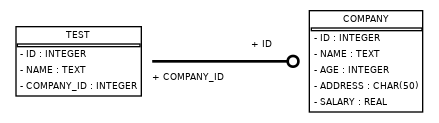
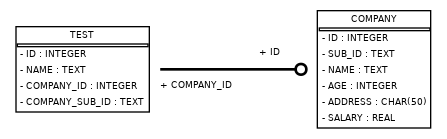
utilities changes, added new rule to make file

Changed region(s): [[0.0296, 0.0488, 0.9772, 0.9512], [0.5626, 0.3171, 0.6515, 0.4146]]

diff --git a/src/scripts/test_db.py b/src/scripts/test_db.py
@@ -11,10 +11,12 @@ metadata = MetaData(bind=engine)
 connection = engine.raw_connection()
 cursor = connection.cursor()
 
+cursor.execute("""PRAGMA foreign_keys=on;""")
 cursor.execute("""DROP TABLE IF EXISTS COMPANY""")
 cursor.execute(
     """CREATE TABLE COMPANY
          (ID INT PRIMARY KEY     NOT NULL,
+         SUB_ID         TEXT     NOT NULL,
          NAME           TEXT    NOT NULL,
          AGE            INT     NOT NULL,
          ADDRESS        CHAR(50),
@@ -22,42 +24,75 @@ cursor.execute(
 )
 
 cursor.execute(
-    "INSERT INTO COMPANY (ID,NAME,AGE,ADDRESS,SALARY) \
-      VALUES (1, 'Paul', 32, 'California', 20000.00 )"
+    "INSERT INTO COMPANY (ID,SUB_ID,NAME,AGE,ADDRESS,SALARY) \
+      VALUES (1, 'x', 'Paul', 32, 'California', 20000.00 )"
 )
 
 cursor.execute(
-    "INSERT INTO COMPANY (ID,NAME,AGE,ADDRESS,SALARY) \
-      VALUES (2, 'Allen', 25, 'Texas', 15000.00 )"
+    "INSERT INTO COMPANY (ID,SUB_ID,NAME,AGE,ADDRESS,SALARY) \
+      VALUES (2, 'y', 'Allen', 25, 'Texas', 15000.00 )"
 )
 
 cursor.execute(
-    "INSERT INTO COMPANY (ID,NAME,AGE,ADDRESS,SALARY) \
-      VALUES (3, 'Teddy', 23, 'Norway', 20000.00 )"
+    "INSERT INTO COMPANY (ID,SUB_ID,NAME,AGE,ADDRESS,SALARY) \
+      VALUES (3, 'z', 'Teddy', 23, 'Norway', 20000.00 )"
 )
 
 cursor.execute(
-    "INSERT INTO COMPANY (ID,NAME,AGE,ADDRESS,SALARY) \
-      VALUES (4, 'Mark', 25, 'Rich-Mond ', 65000.00 )"
+    "INSERT INTO COMPANY (ID,SUB_ID,NAME,AGE,ADDRESS,SALARY) \
+      VALUES (4, 'w', 'Mark', 25, 'Rich-Mond ', 65000.00 )"
 )
 
 connection.commit()
 
 cursor.execute("""DROP TABLE IF EXISTS TEST""")
 cursor.execute(
-    """CREATE TABLE TEST
-         (ID INT PRIMARY KEY     NOT NULL,
-         NAME           TEXT    NOT NULL,
-         COMPANY_ID     INT     NOT NULL,
-         FOREIGN KEY (COMPANY_ID) REFERENCES COMPANY);"""
+    """CREATE TABLE TEST(
+        ID INT PRIMARY KEY     NOT NULL,
+        NAME           TEXT    NOT NULL,
+        COMPANY_ID     INT     NULL,
+        COMPANY_SUB_ID TEXT     NULL,
+        FOREIGN KEY (COMPANY_ID) REFERENCES COMPANY ON DELETE SET NULL
+    );"""
 )
 
-cursor.execute("INSERT INTO TEST (ID,NAME,COMPANY_ID) VALUES (1, 'OtherTable1', 1)")
-cursor.execute("INSERT INTO TEST (ID,NAME,COMPANY_ID) VALUES (2, 'OtherTable2', 2)")
-cursor.execute("INSERT INTO TEST (ID,NAME,COMPANY_ID) VALUES (3, 'OtherTable3', 3)")
-cursor.execute("INSERT INTO TEST (ID,NAME,COMPANY_ID) VALUES (4, 'OtherTable4', 4)")
+cursor.execute(
+    "INSERT INTO TEST (ID,NAME,COMPANY_ID,COMPANY_SUB_ID) VALUES (1, 'OtherTable1', 1, 'x')"
+)
+cursor.execute(
+    "INSERT INTO TEST (ID,NAME,COMPANY_ID,COMPANY_SUB_ID) VALUES (2, 'OtherTable2', 2, 'y')"
+)
+cursor.execute(
+    "INSERT INTO TEST (ID,NAME,COMPANY_ID,COMPANY_SUB_ID) VALUES (3, 'OtherTable3', 3, 'z')"
+)
+cursor.execute(
+    "INSERT INTO TEST (ID,NAME,COMPANY_ID,COMPANY_SUB_ID) VALUES (4, 'OtherTable4', 4, 'w')"
+)
 
 connection.commit()
+
+result = cursor.execute(
+    "SELECT c.id, c.name, c.age, t.name FROM COMPANY as c LEFT JOIN TEST as t ON c.ID=t.COMPANY_ID"
+)
+for row in result:
+    print(row)
+
+result = cursor.execute("DELETE FROM COMPANY WHERE ID=1")
+
+print("----------------")
+
+result = cursor.execute(
+    "SELECT c.id, c.name, c.age, t.name FROM COMPANY as c LEFT JOIN TEST as t ON c.ID=t.COMPANY_ID"
+)
+for row in result:
+    print(row)
+
+print("----------------")
+
+result = cursor.execute("SELECT * FROM TEST")
+for row in result:
+    print(row)
+
 
 graph = create_schema_graph(
     metadata=metadata,
@@ -77,7 +112,6 @@ connection.close()
 
 png = graph.create_png()
 encoded_png = base64.b64encode(png)
-print(encoded_png)
 
 
 # Zadania na jutro:

diff --git a/src/exceptions.py b/src/exceptions.py
@@ -1,0 +1,5 @@
+class RelationException(Exception):
+    def __init__(self, action: str):
+        super().__init__(
+            f"Column cannot be {action}d. At least one relation is pointing at selected column!"
+        )
